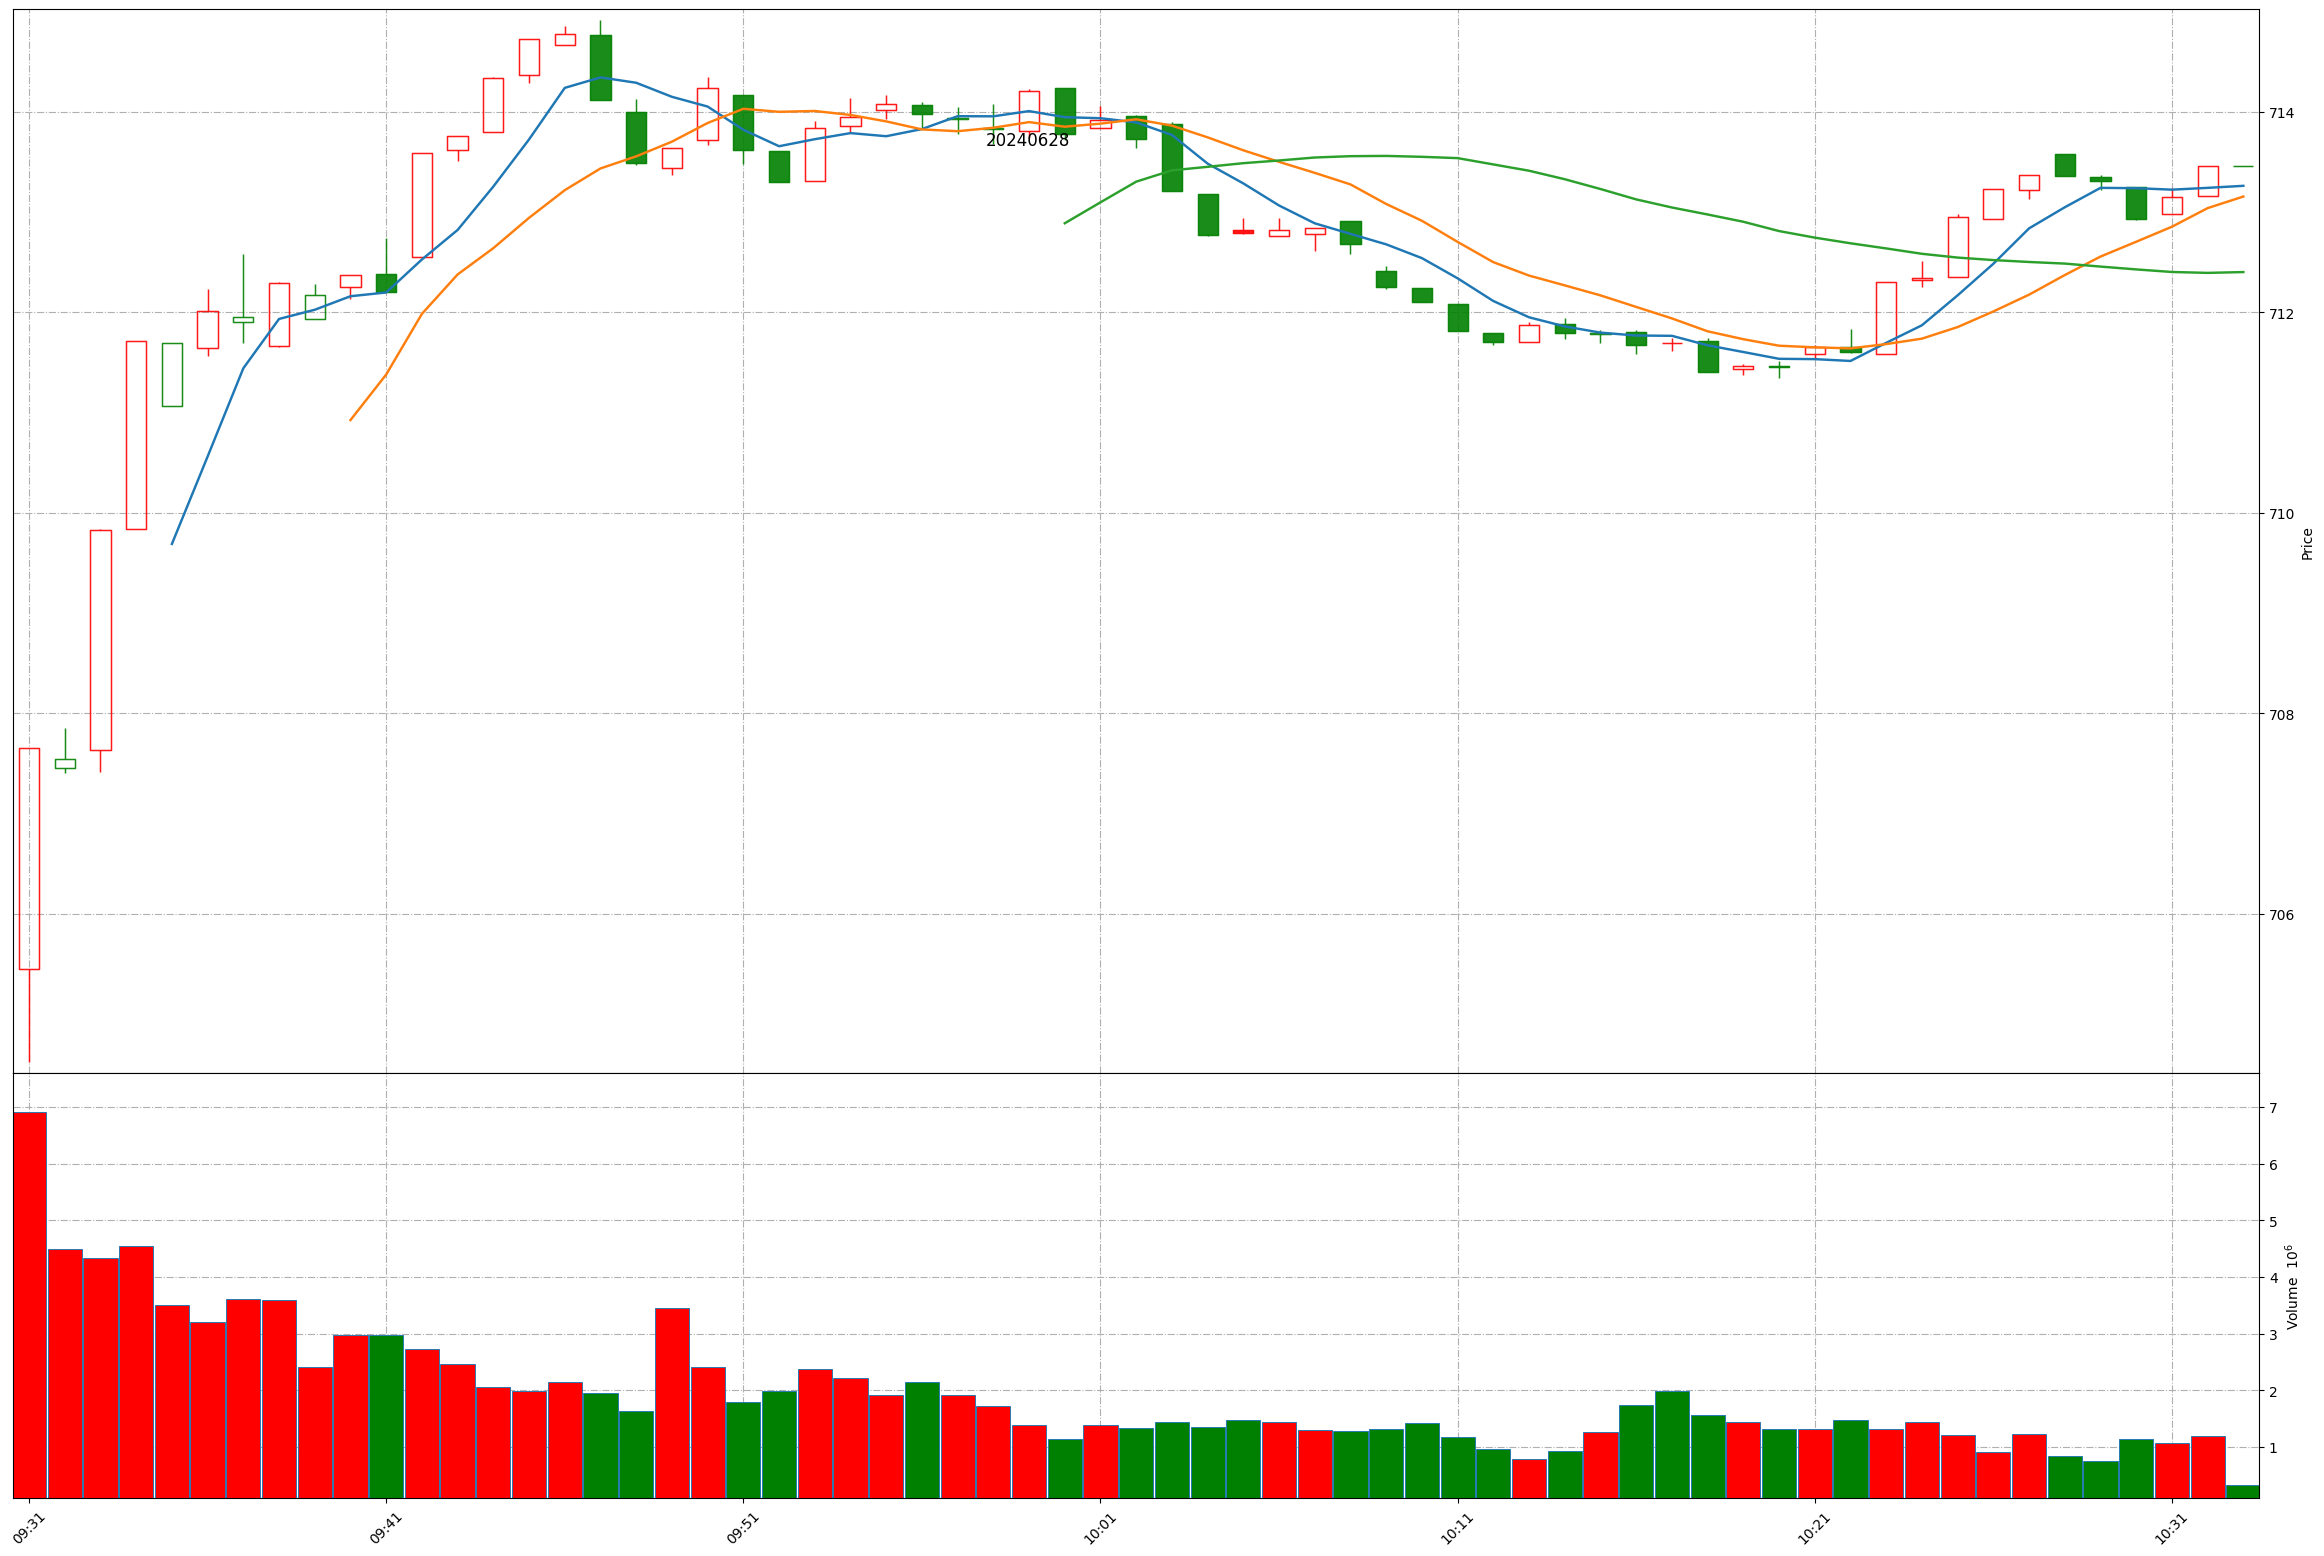
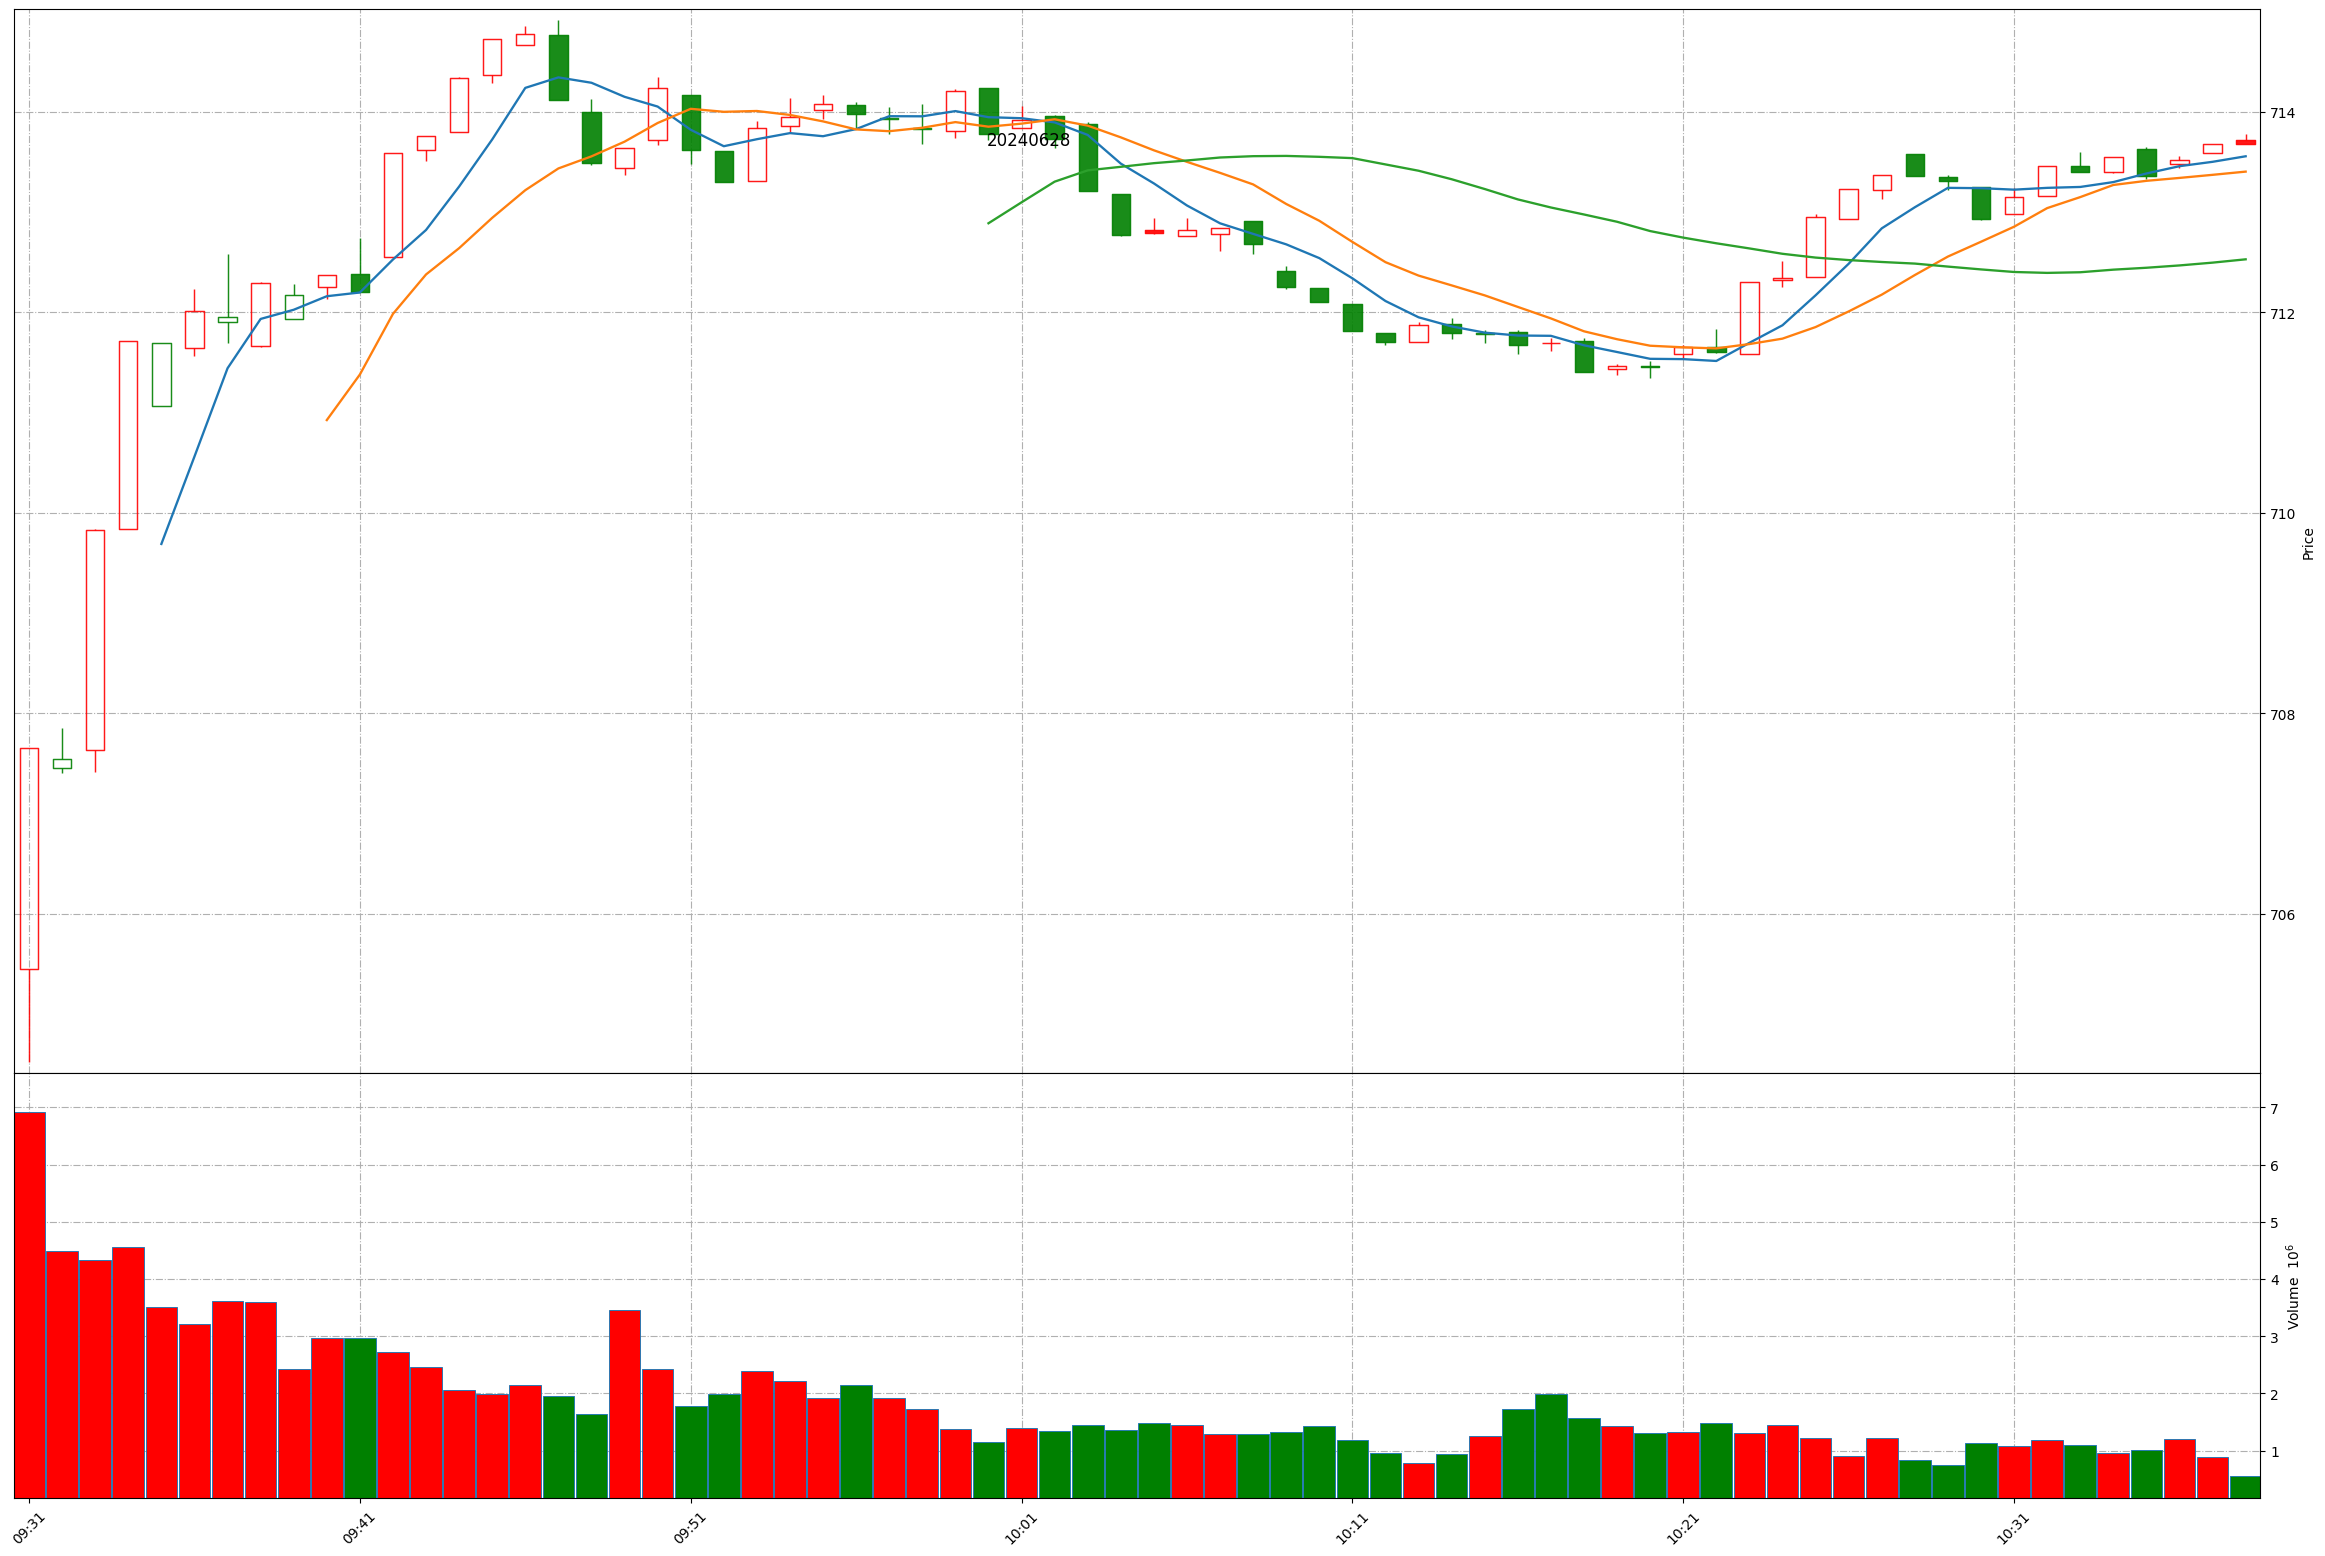
Github action update at 2024-06-28 10:37:44.

Changed region(s): [[0.031, 0.8021, 0.9914, 0.9871], [0.0, 0.0, 0.9604, 0.617], [0.6816, 0.1234, 0.7435, 0.1542]]

diff --git a/README.md b/README.md
@@ -1,11 +1,11 @@
 
 # Daily-A-share-market-quotes 每日 A 股指数（5min 更新）- 20240628
 
-### 上证指数 20240628 10:32
+### 上证指数 20240628 10:37
 ![](./fig/2024/6/20240628-sh000001.png)
 
-### 深证成指 20240628 10:32
+### 深证成指 20240628 10:37
 ![](./fig/2024/6/20240628-sz399001.png)
 
-### 北证50 20240628 10:32
+### 北证50 20240628 10:37
 ![](./fig/2024/6/20240628-bj899050.png)
